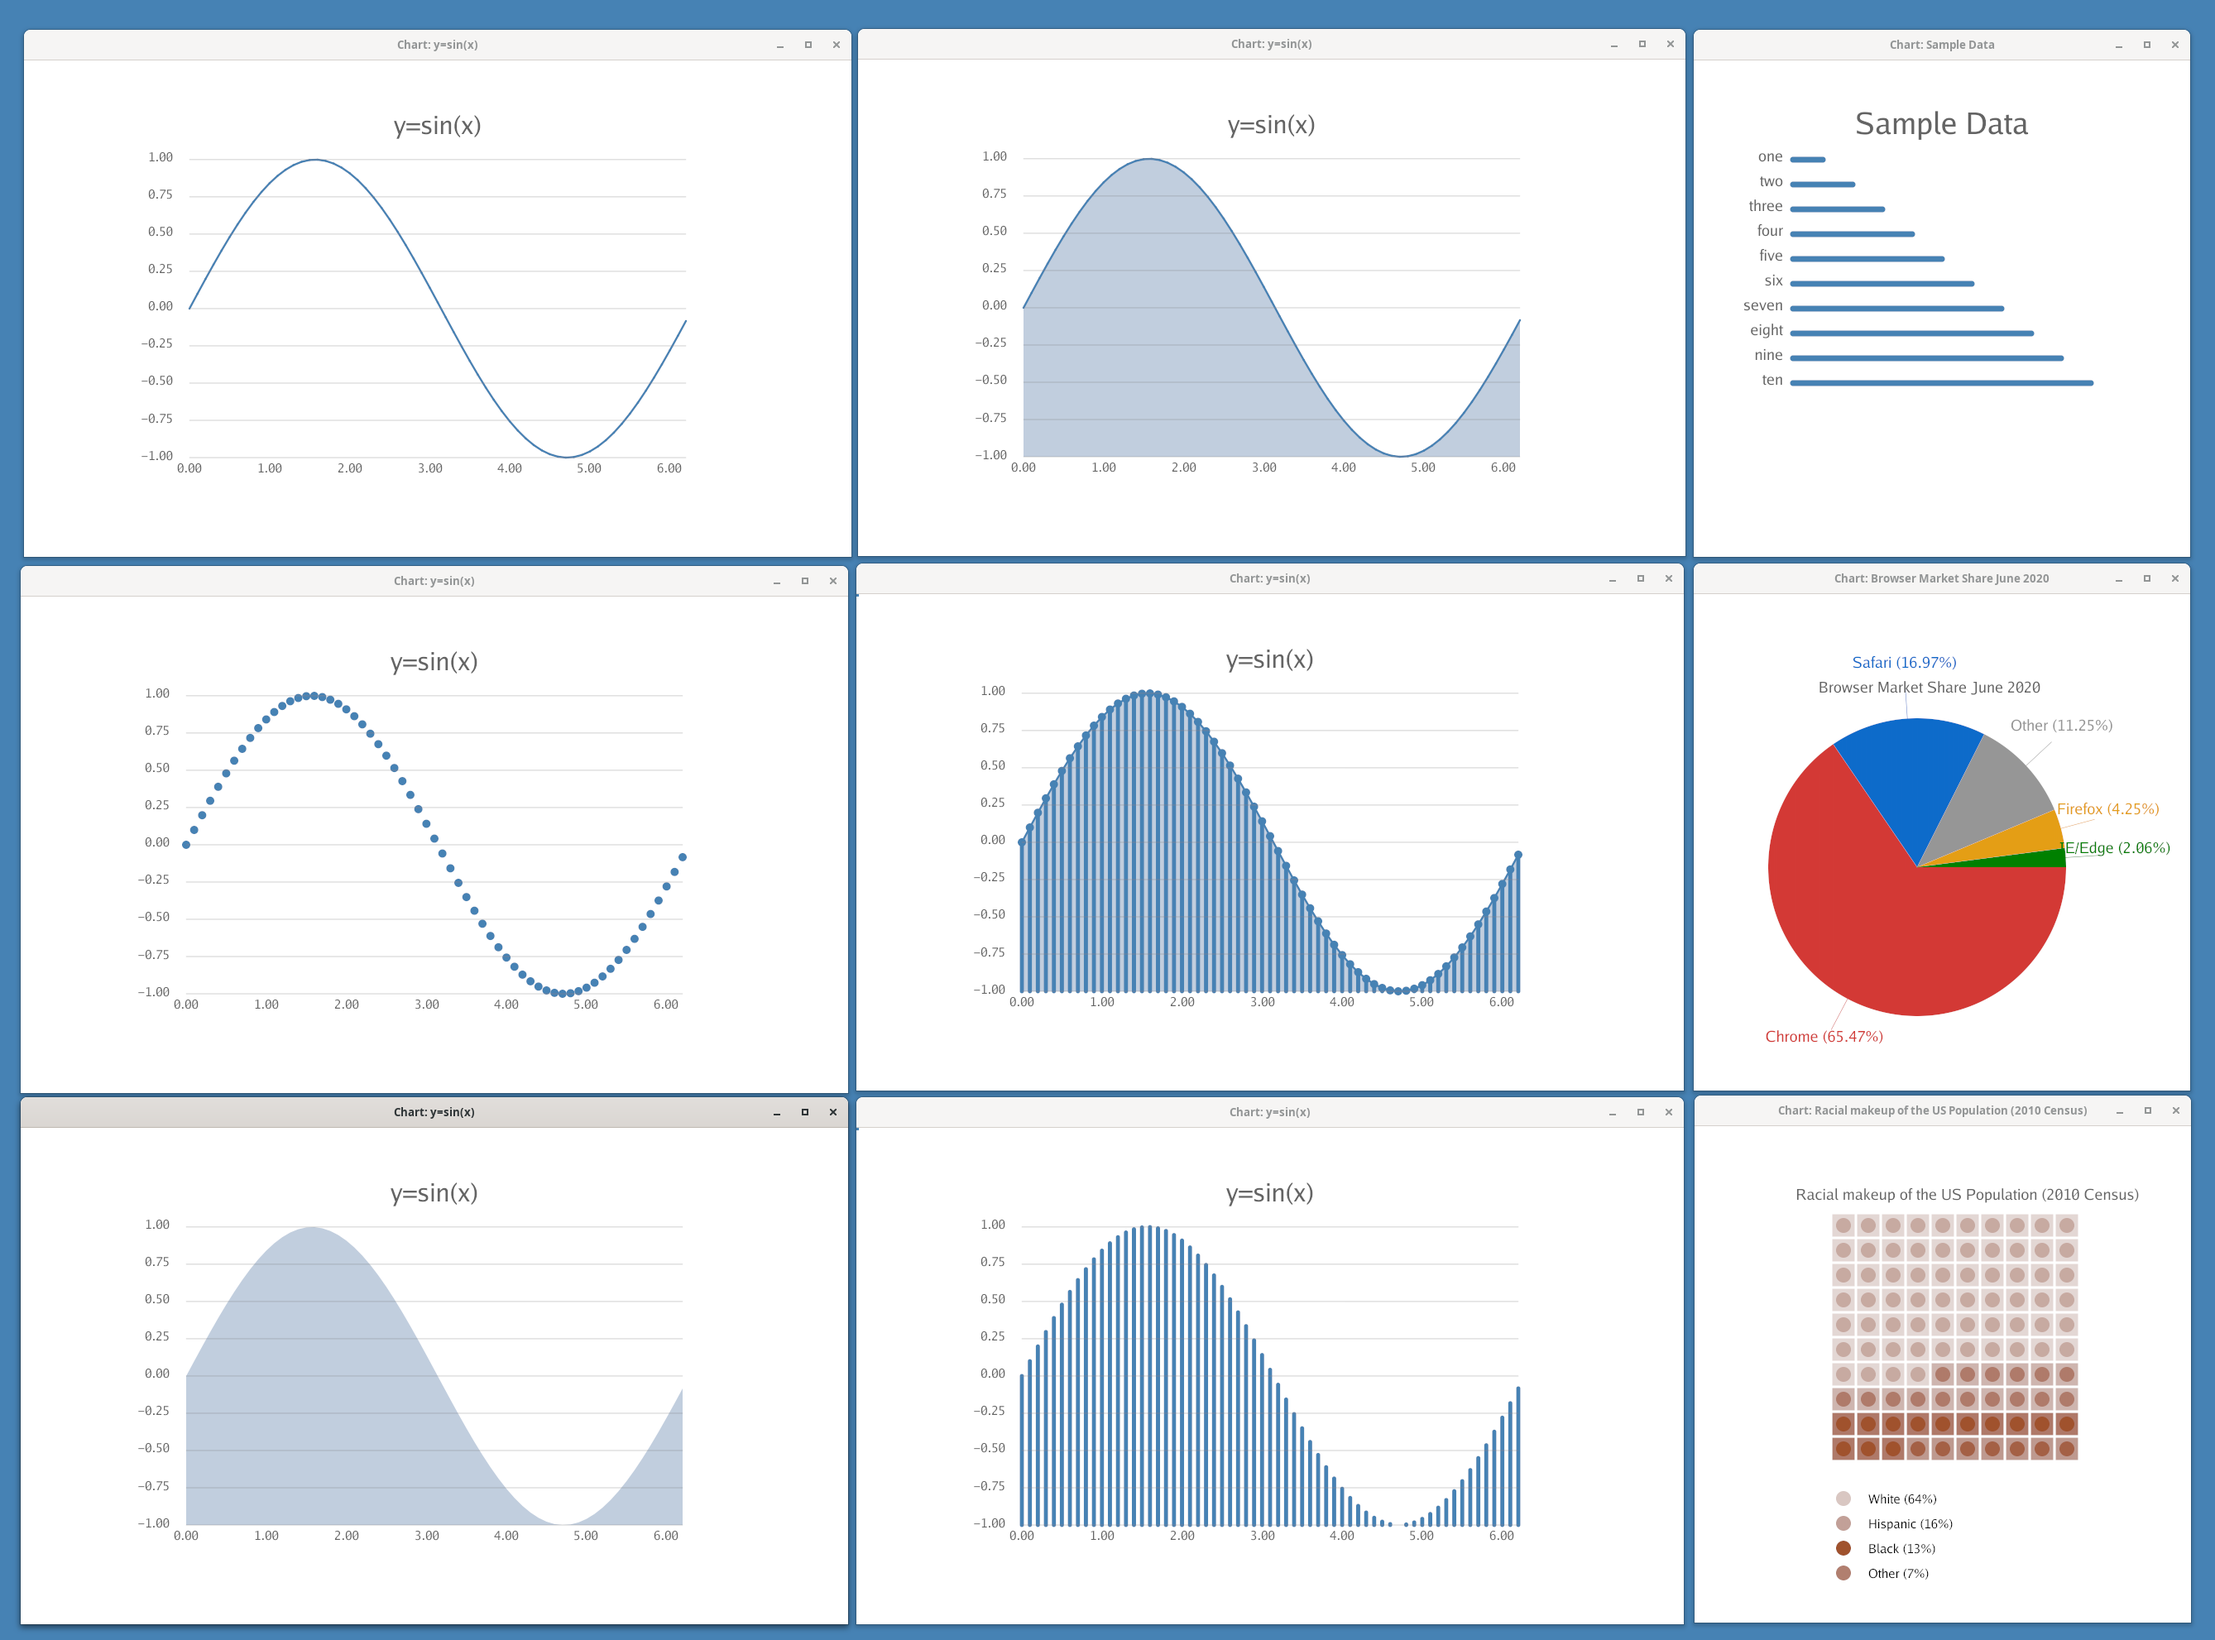
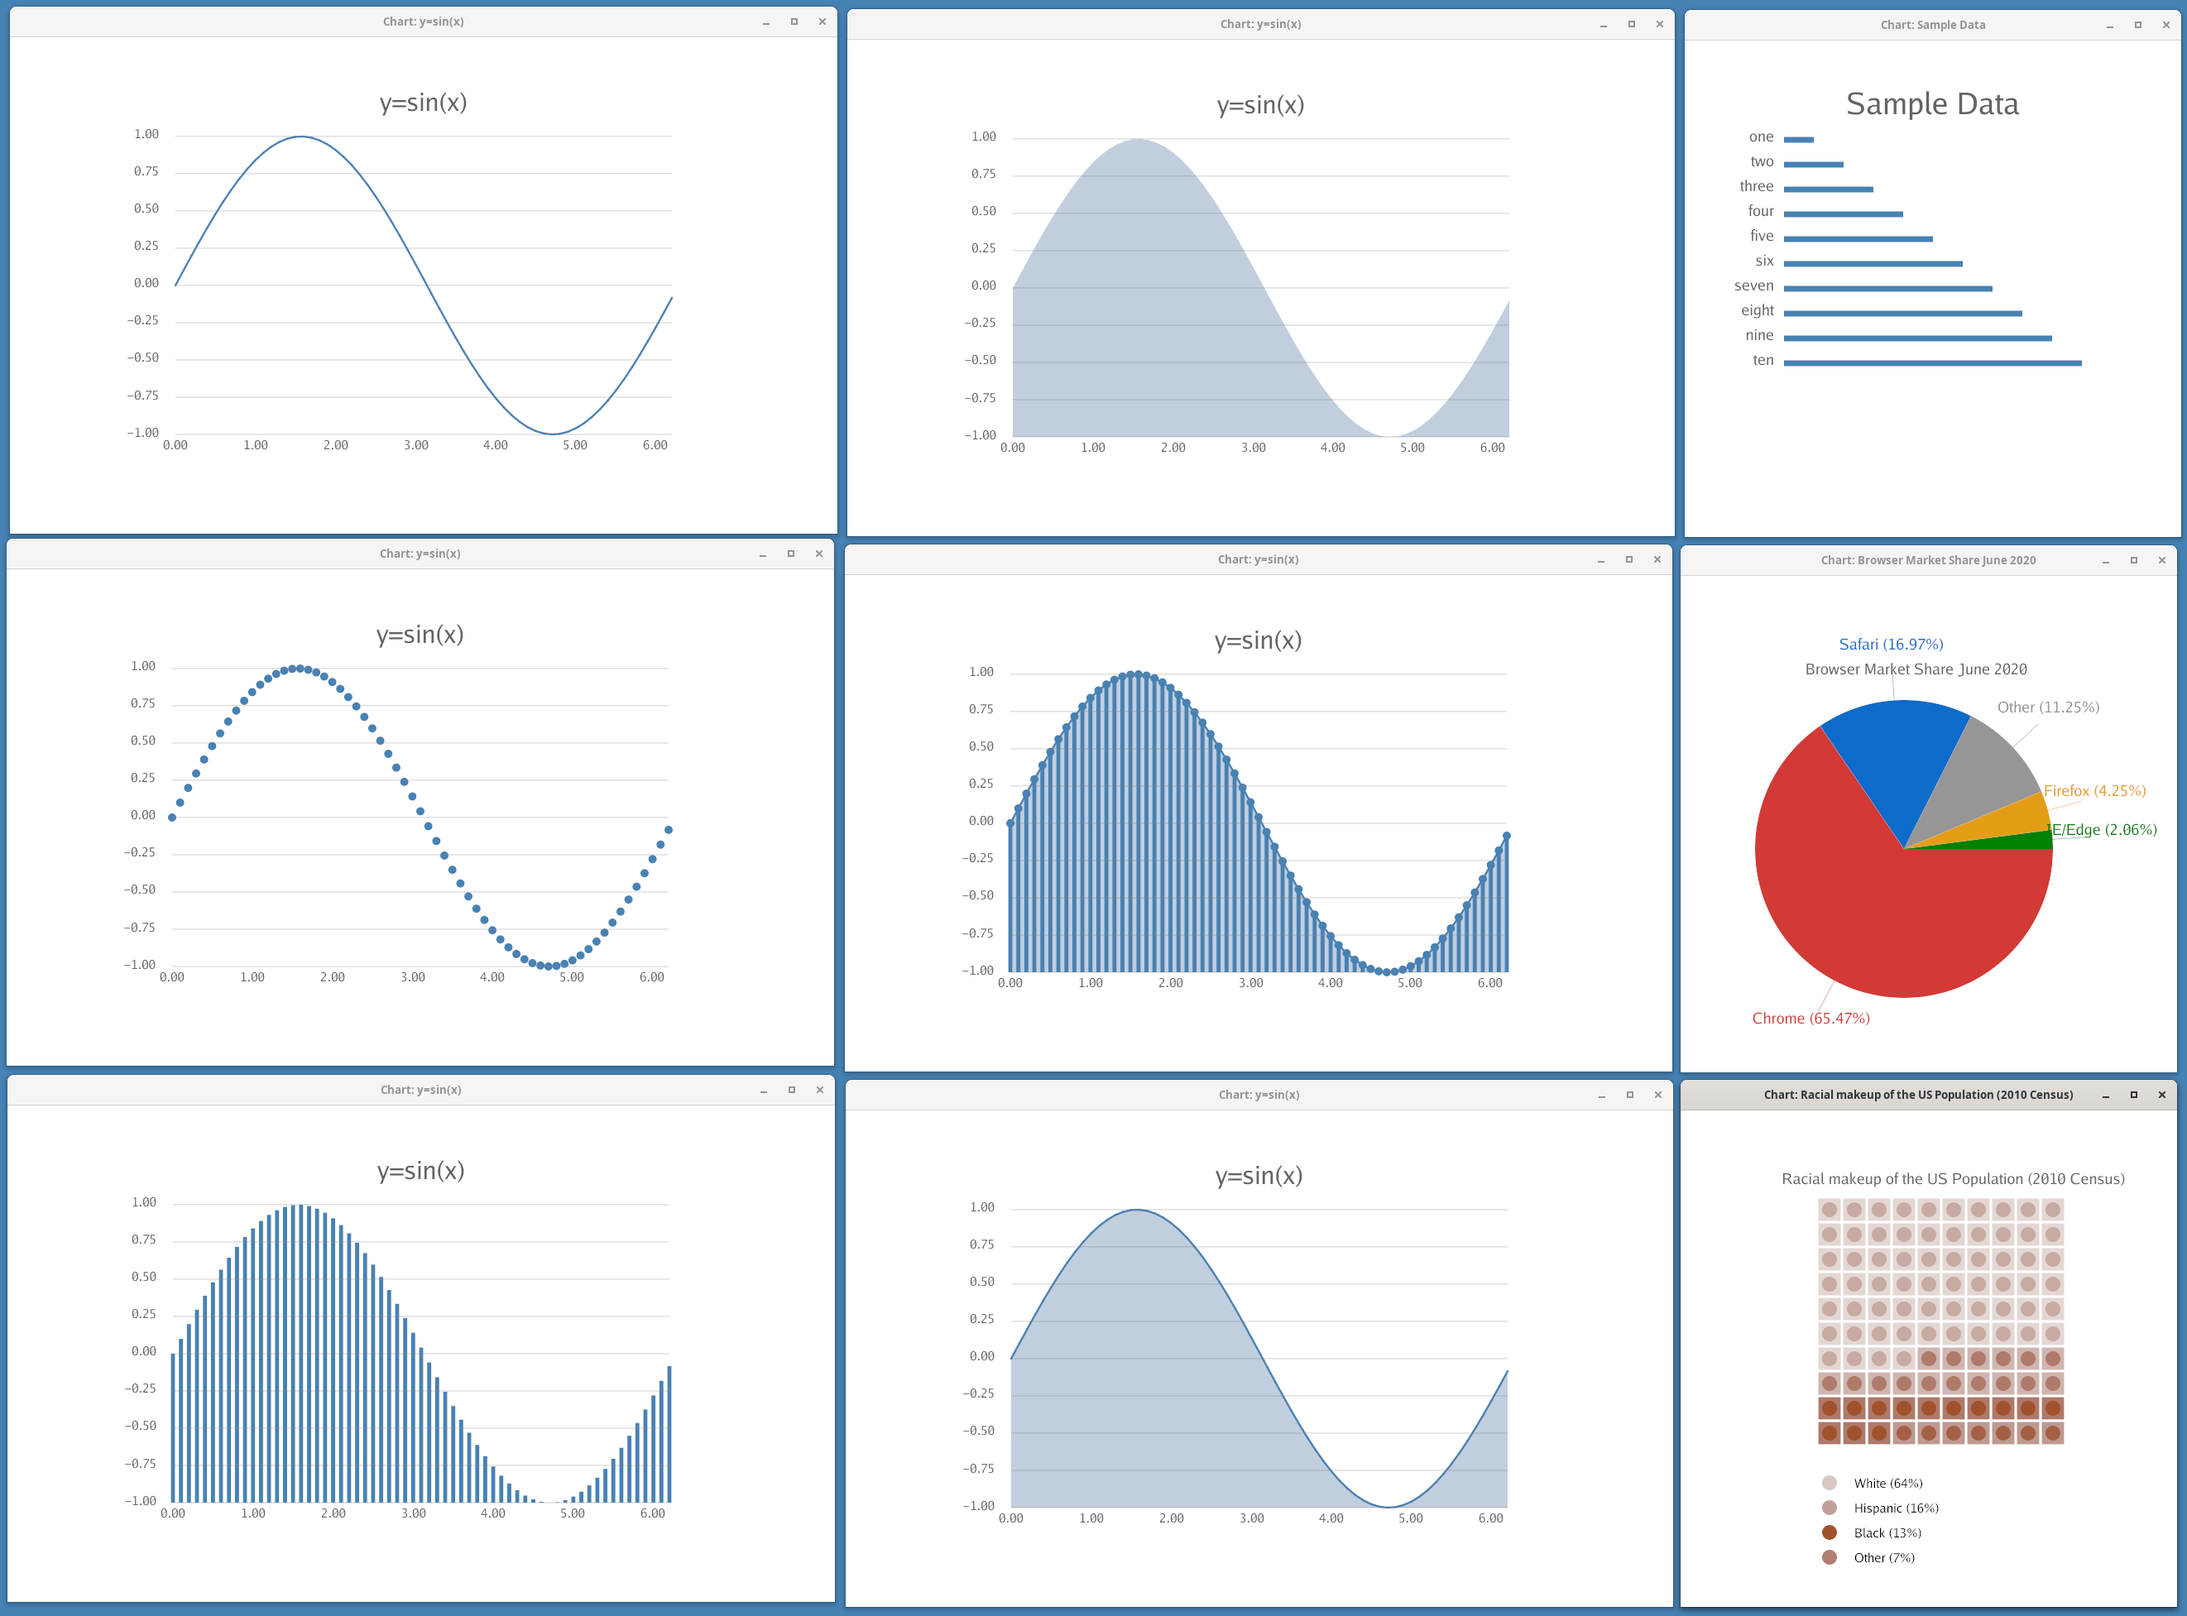
chart/gchart -- fix stright lines (no round end-caps)

diff --git a/chart/chart.go b/chart/chart.go
@@ -103,6 +103,19 @@ func zerobase(usez bool, n float64) float64 {
 	return n
 }
 
+// drawline makes lines, with special consideration for horizontal and vertical lines
+// by default gio draws lines with round end-caps, this fixes it for straight lines.
+func drawline(canvas *gc.Canvas, x1, y1, x2, y2, sw float32, color color.NRGBA) {
+	switch {
+	case y1 == y2: // horizontal
+		canvas.CornerRect(x1, y1+(sw/2), x2-x1, sw, color)
+	case x1 == x2: // vertical
+		canvas.CornerRect(x1-(sw/2), y2, sw, y2-y1, color)
+	default:
+		canvas.Line(x1, y1, x2, y2, sw, color)
+	}
+}
+
 // Bar makes a (column) bar chart
 func (c *ChartBox) Bar(canvas *gc.Canvas, size float64) {
 	dlen := float64(len(c.Data) - 1)
@@ -110,7 +123,7 @@ func (c *ChartBox) Bar(canvas *gc.Canvas, size float64) {
 	for i, d := range c.Data {
 		x := float32(gc.MapRange(float64(i), 0, dlen, c.Left, c.Right))
 		y := float32(gc.MapRange(d.value, ymin, c.Maxvalue, c.Bottom, c.Top))
-		canvas.Line(float32(x), float32(c.Bottom), x, y, float32(size), c.Color)
+		drawline(canvas, float32(x), float32(c.Bottom), x, y, float32(size), c.Color)
 	}
 }
 
@@ -122,7 +135,7 @@ func (c *ChartBox) HBar(canvas *gc.Canvas, size, linespacing, textsize float64) 
 	for _, d := range c.Data {
 		canvas.EText(cl-2, y-float32(size/2), float32(textsize), d.label, labelcolor)
 		x2 := gc.MapRange(d.value, xmin, c.Maxvalue, c.Left, c.Right)
-		canvas.Line(cl, y, float32(x2), y, float32(size), c.Color)
+		drawline(canvas, cl, y, float32(x2), y, float32(size), c.Color)
 		y -= float32(linespacing)
 	}
 }
